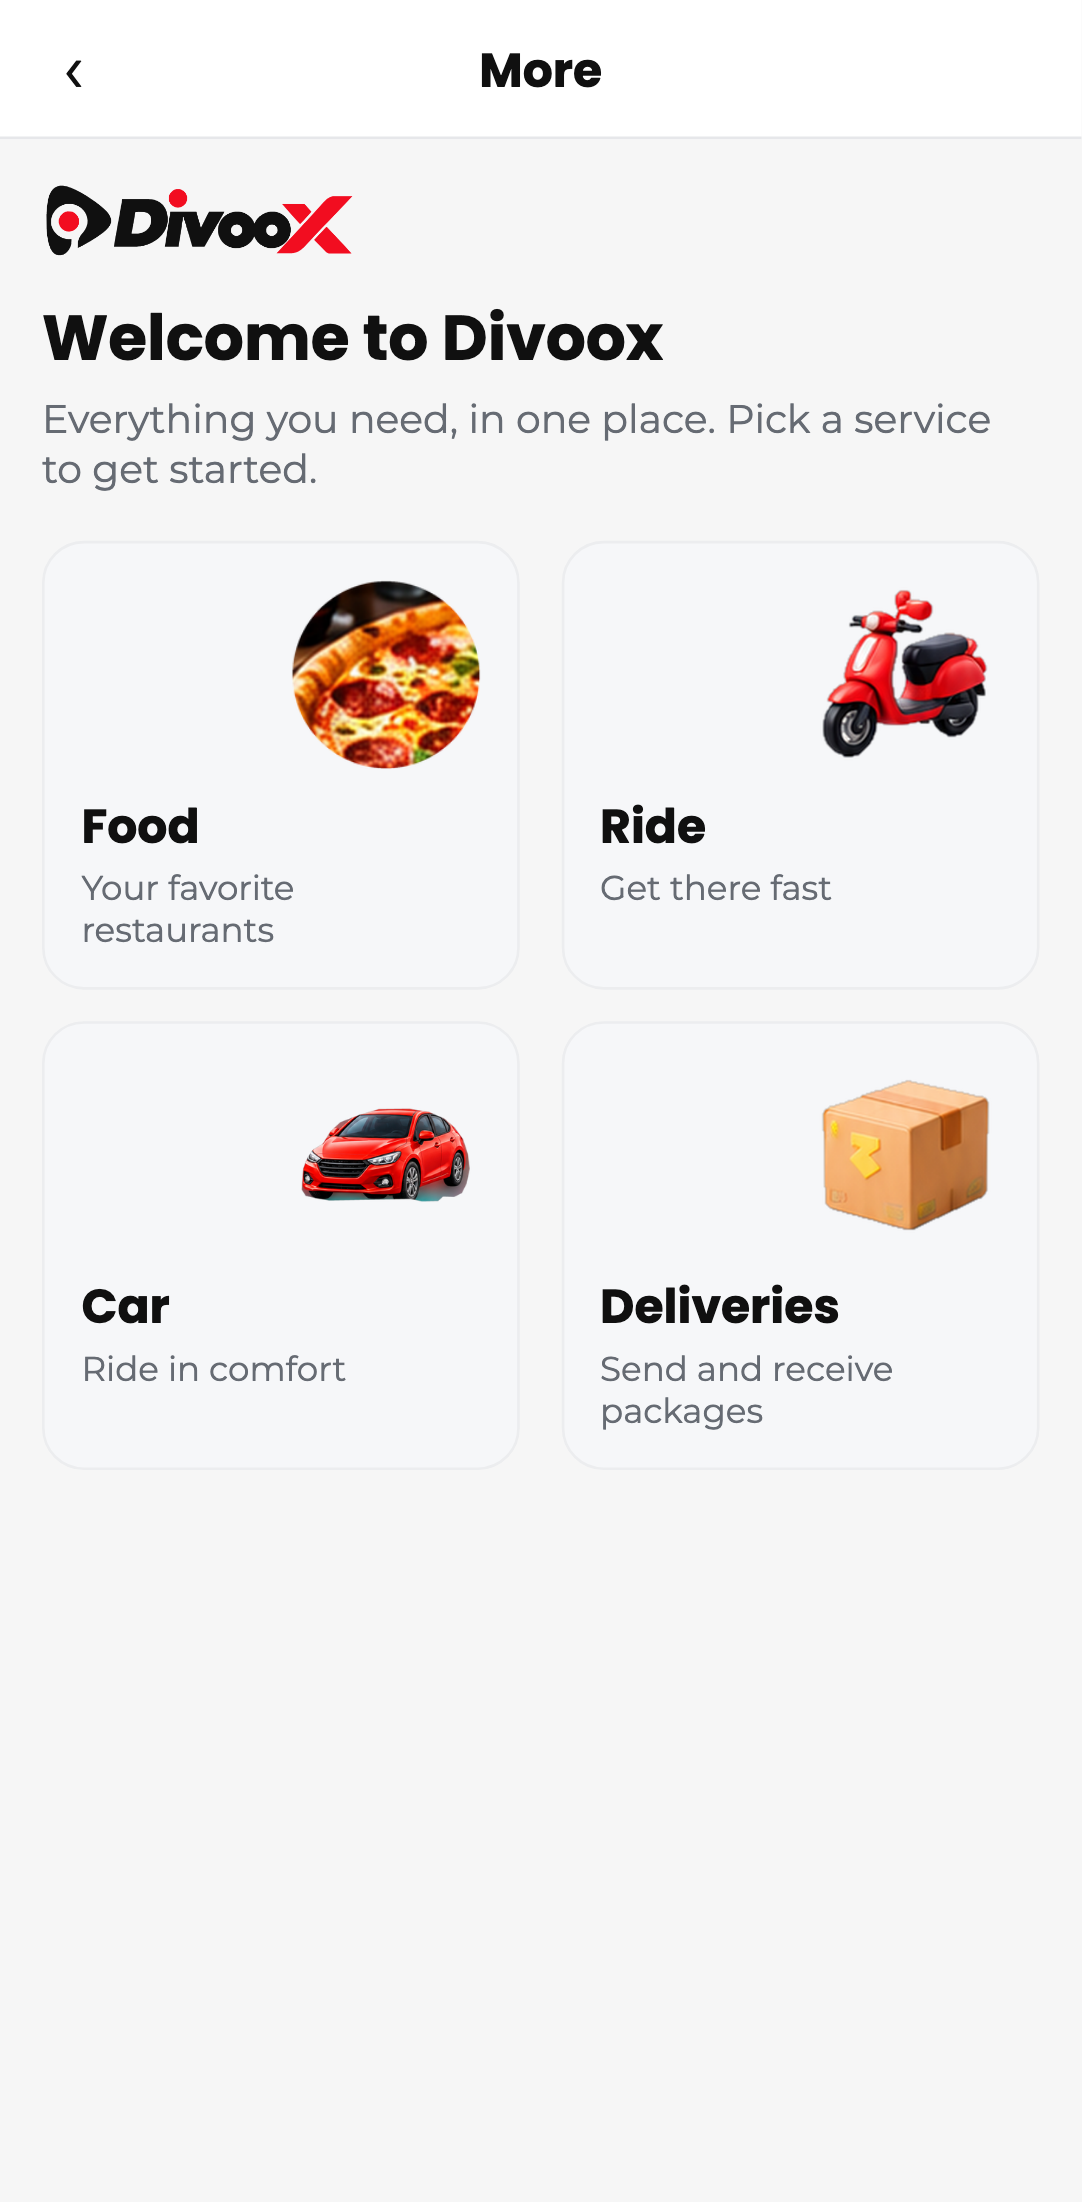
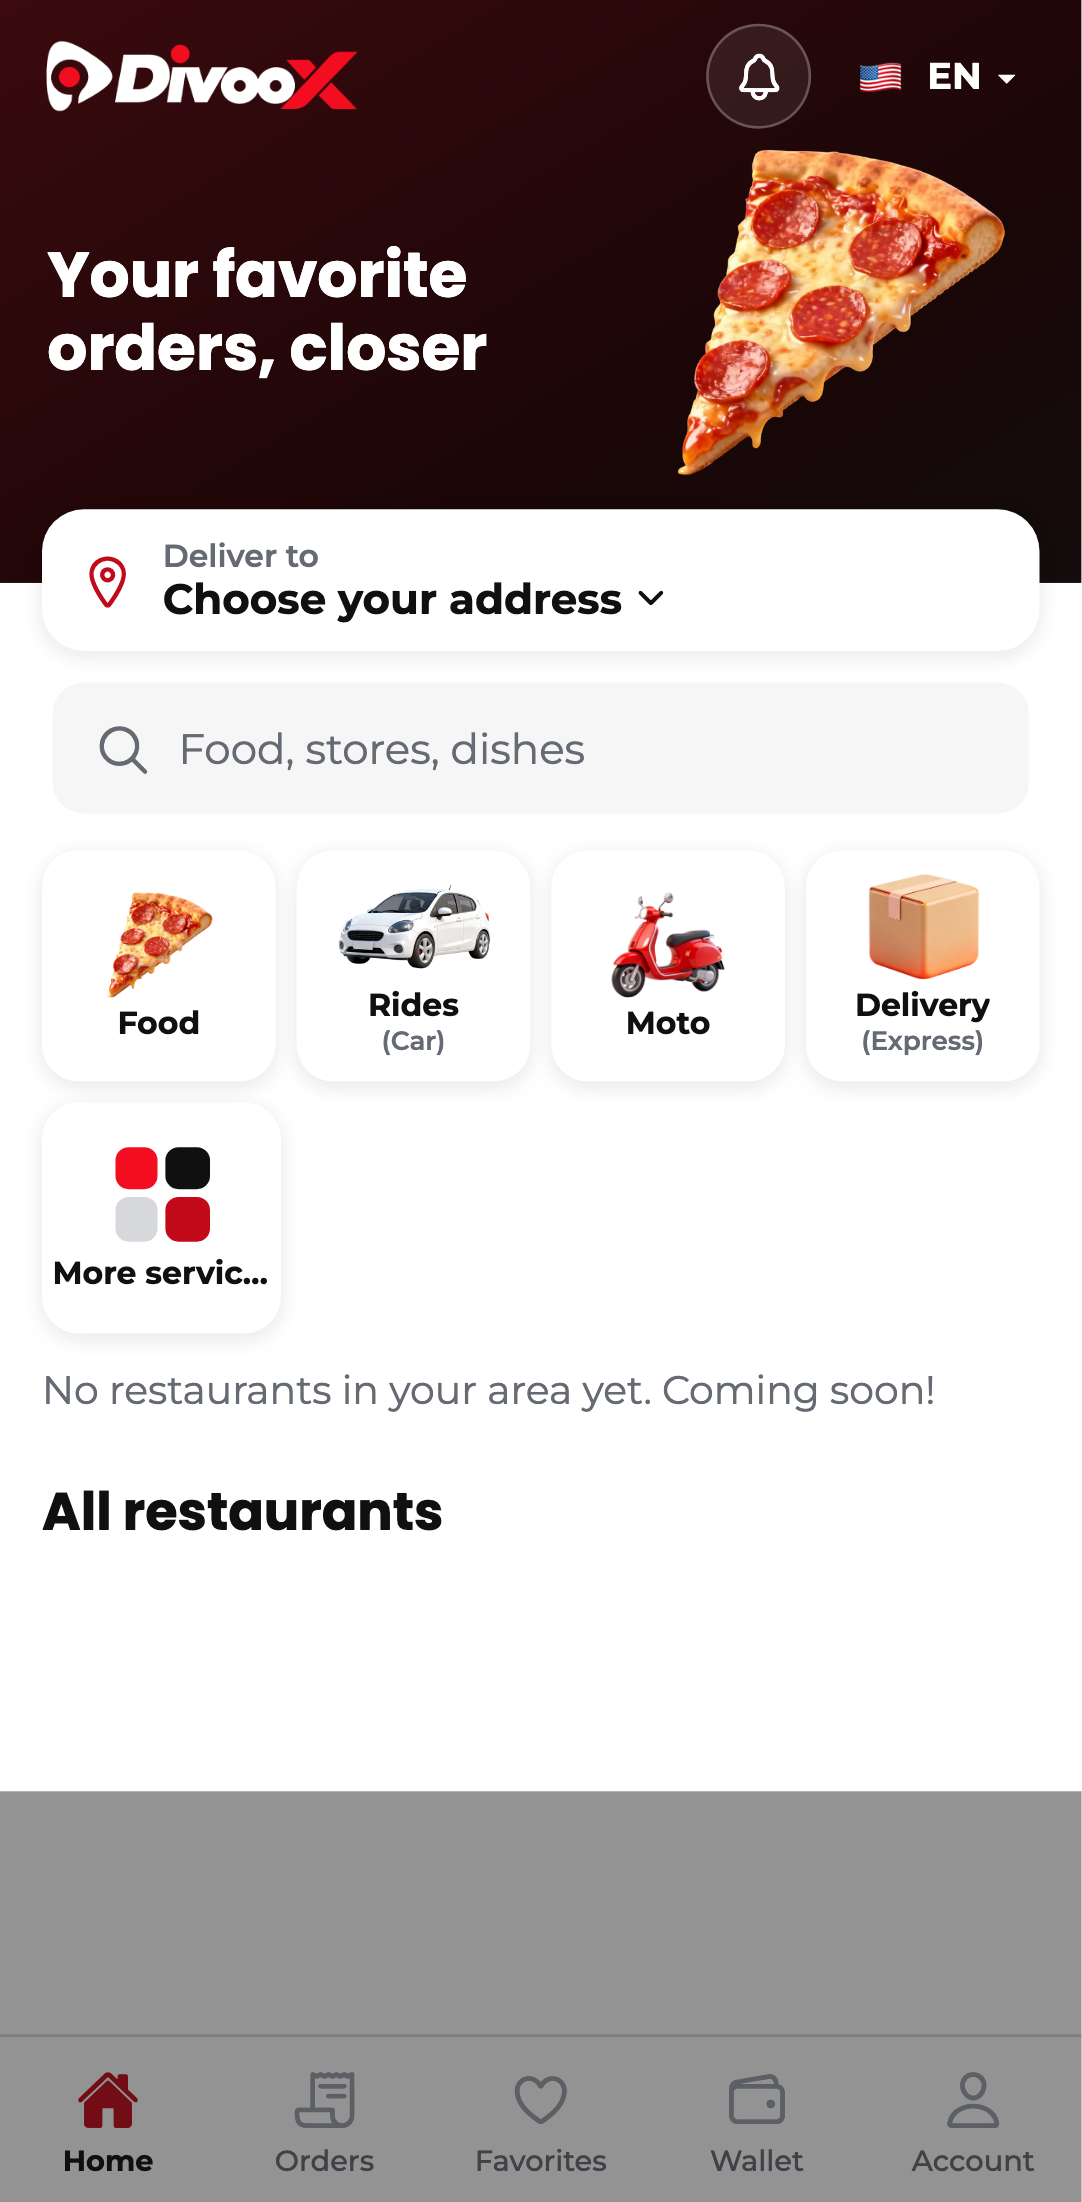
fix(recorrido): el recorrido completo vuelve a verde con el inicio nuevo («Close» exacto: chocaba con el titular «…closer» de la portada; «Más servicios» como hoja y Envíos/Carro según el borrador aprobado en el guion), el fondo de la hoja ya no es otro botón «Cerrar», el inicio suma «Te puede gusta

diff --git a/e2e/recorrido/mas.spec.ts b/e2e/recorrido/mas.spec.ts
@@ -18,7 +18,7 @@ const DATOS = STAGING
 test.skip(STAGING, 'solo en esta computadora');
 
 for (const idioma of ['en', 'es'] as const)
-  test(`«Más» muestra los servicios listos en una cuadrícula (${idioma})`, async ({
+  test(`el inicio muestra los servicios listos y «Más servicios» lo secundario (${idioma})`, async ({
     browser,
     request,
   }) => {
@@ -69,26 +69,22 @@ for (const idioma of ['en', 'es'] as const)
         },
       }),
     );
-    await p.goto('/app/service/mas');
+    // C-INICIO-NUEVO (17 nov 2026, borrador aprobado): en el inicio, los servicios que funcionan en
+    // cuatro columnas; «Más servicios» abre una hoja con lo secundario, sin repetir servicios.
+    await p.goto('/app/');
     const en = idioma === 'en';
-    await expect(p.getByTestId('pantalla-mas')).toBeVisible({ timeout: 30_000 });
     for (const s of ['moto', 'carro', 'comida', 'envios'])
-      await expect(p.getByTestId(`explorar-${s}`)).toBeVisible();
-    // C-SOLO-LO-TERMINADO (3 nov): bienvenida con el logo arriba, sin franja ni «Pronto».
-    await expect(p.getByText(en ? 'Welcome to Divoox' : 'Bienvenido a Divoox')).toBeVisible();
+      await expect(p.getByTestId(`servicio-${s}`)).toBeVisible({ timeout: 30_000 });
+    await expect(p.getByTestId('servicio-farmacia')).toHaveCount(0);
     await expect(p.getByText(/^(Pronto|Soon)$/)).toHaveCount(0);
-    await expect(p.getByTestId('franja-estado')).toHaveCount(0);
-    await expect(p.getByTestId('explorar-farmacia')).toHaveCount(0);
+    await p.getByTestId('servicio-mas').click();
+    await expect(p.getByTestId('mas-regalos')).toBeVisible({ timeout: 30_000 });
+    await expect(p.getByText(en ? 'More services' : 'Más servicios').last()).toBeVisible();
+    await expect(p.getByTestId('mas-moto')).toHaveCount(0);
     await p.screenshot({ path: join(RAIZ, 'docs', 'capturas', `mas-servicios-${idioma}.png`) });
-    // Un servicio que todavía no abre no muestra listas de «Ejemplo» (C-SOLO-LO-TERMINADO).
-    await p.goto('/app/service/farmacia');
-    await expect(p.getByTestId('franja-estado')).toBeVisible({ timeout: 30_000 });
-    await expect(p.getByText(/^(Ejemplo|Sample)$/)).toHaveCount(0);
-    await p.goto('/app/service/mas');
-    await expect(p.getByTestId('pantalla-mas')).toBeVisible({ timeout: 30_000 });
-    // Cada servicio lleva a su pantalla.
-    await p.getByTestId('explorar-carro').click();
-    await expect(p).toHaveURL(/service\/carro/);
+    // C-SIN-PANTALLAS-INTERMEDIAS: los enlaces viejos de /service/<id> llevan directo a su pantalla.
+    await p.goto('/app/service/carro');
+    await expect(p).toHaveURL(/ride\?servicio=carro/, { timeout: 30_000 });
     await ctx.close();
   });
 
@@ -122,10 +118,13 @@ test('cada servicio de viajes dice lo suyo en el formulario (es)', async ({ brow
   await p.goto('/app/ride?servicio=carro');
   // C-CARRO-CATEGORIAS: las categorías se eligen al ver el precio; el formulario dice lo de Carro.
   await expect(p.getByText(/Para 6, elige Carro XL/)).toBeVisible({ timeout: 30_000 });
-  await expect(p.getByTestId('parada-agregar')).toBeVisible();
+  // C-INICIO-NUEVO: las paradas se agregan después de elegir el destino (borrador aprobado).
+  await expect(p.getByText('Tipo de carro')).toBeVisible();
   await expect(p.getByText(casco)).toHaveCount(0);
   await p.goto('/app/ride?servicio=envios');
-  await expect(p.getByText('¿A dónde lo llevamos?').first()).toBeVisible({ timeout: 30_000 });
+  // Envíos: «Recoger en» y «Entregar en» (borrador aprobado), nunca «¿A dónde vas?».
+  await expect(p.getByText('Entregar en').first()).toBeVisible({ timeout: 30_000 });
+  await expect(p.getByText('¿A dónde vas?')).toHaveCount(0);
   await expect(p.getByText(casco)).toHaveCount(0);
   await expect(p.getByText(/Un pasajero/)).toHaveCount(0);
   await ctx.close();

diff --git a/apps/cliente/src/Inicio.tsx b/apps/cliente/src/Inicio.tsx
@@ -14,6 +14,7 @@ import {
   ordenarPorUso,
   portadaRespaldo,
   rutaBanners,
+  recomendarRestaurantes,
   rutaDeServicio,
   serviciosDelInicio,
 } from '@tumbite/compartido';
@@ -31,6 +32,10 @@ import { ElegirDireccion } from './inicio/ElegirDireccion';
 import type { PromoReal } from './inicio/Ofertas';
 import { useServicios } from './inicio/useServicios';
 import { useAvisos } from './inicio/useAvisos';
+import { useFavoritos } from './inicio/useFavoritos';
+import { EstadoCatalogo } from './comida/EstadoCatalogo';
+import { FilaRestaurantes, ListaRestaurantes } from './inicio/Restaurantes';
+import { textosInicio } from './inicio/textos';
 import {
   CarruselPromos,
   CuadriculaServicios,
@@ -43,6 +48,8 @@ import { textosInicioNuevo } from './inicio/textosNuevo';
 import { useVolverAlViaje } from './viajes/useVolverAlViaje';
 
 const ANCHO_PORTADA = 640;
+/** Cuántos restaurantes salen por tanda en «Todos los restaurantes». */
+const TANDA = 25;
 const LLAVE_USOS = 'inicio-usos-servicios';
 const LLAVE_PORTADA = 'inicio-ultima-portada';
 
@@ -177,6 +184,33 @@ export function Inicio() {
     );
   }, [api, cerca]);
 
+  // Debajo de lo del borrador, como los grandes al bajar: «Te puede gustar» (C-TE-PUEDE-GUSTAR, por lo
+  // que ya pidió) y «Todos los restaurantes» por tandas.
+  const favoritos = useFavoritos(api, Boolean(usuario));
+  const [cuantos, setCuantos] = useState(TANDA);
+  const [yaPedidos, setYaPedidos] = useState<Set<string>>(new Set());
+  useEffect(() => {
+    if (!usuario) return;
+    let vivo = true;
+    api
+      .pedir<{ pedidos: { estado: string; restauranteId: string }[] }>('GET', '/datos/mis-pedidos')
+      .then(
+        (r) =>
+          vivo &&
+          setYaPedidos(
+            new Set(r.pedidos.filter((p) => p.estado === 'entregado').map((p) => p.restauranteId)),
+          ),
+      )
+      .catch(() => undefined);
+    return () => {
+      vivo = false;
+    };
+  }, [api, usuario]);
+  const recomendados = useMemo(
+    () => recomendarRestaurantes(catalogo.restaurantes, yaPedidos),
+    [catalogo.restaurantes, yaPedidos],
+  );
+
   const carritoCentavos = carrito.lineas.reduce((s, l) => s + l.precioCentavos * l.cantidad, 0);
 
   const abrirServicio = (s: ServicioCatalogo) => {
@@ -264,6 +298,29 @@ export function Inicio() {
               alTocar={abrirRestaurante}
               verTodos={() => router.push('/restaurants')}
             />
+          ) : null}
+          {disponible('comida') ? (
+            <>
+              <FilaRestaurantes
+                idioma={idioma}
+                lista={recomendados}
+                titulo={idioma === 'en' ? 'You might like' : 'Te puede gustar'}
+                testID="te-puede-gustar"
+                favoritos={favoritos}
+                alTocar={abrirRestaurante}
+              />
+              <EstadoCatalogo idioma={idioma} catalogo={catalogo} />
+              <ListaRestaurantes
+                idioma={idioma}
+                lista={catalogo.restaurantes}
+                cuantos={cuantos}
+                verMas={() => setCuantos((n) => n + TANDA)}
+                cargando={catalogo.estado === 'cargando' && !catalogo.restaurantes.length}
+                favoritos={favoritos}
+                alTocar={abrirRestaurante}
+                vacio={catalogo.restaurantes.length ? textosInicio(idioma).sinFiltro : undefined}
+              />
+            </>
           ) : null}
         </View>
       </ScrollView>

diff --git a/e2e/recorrido/recorrido.spec.ts b/e2e/recorrido/recorrido.spec.ts
@@ -630,7 +630,7 @@ for (const idioma of ['en', 'es'] as const) {
     // La hoja sube deslizándose: la foto, cuando ya terminó de subir.
     await cli.waitForTimeout(CAPTURAS ? 800 : 0);
     await foto(cli, 'cliente-inicio-direccion');
-    await cli.getByRole('button', { name: idioma === 'en' ? 'Close' : 'Cerrar' }).click();
+    await cli.getByRole('button', { name: idioma === 'en' ? 'Close' : 'Cerrar', exact: true }).click();
     await expect(cli.getByTestId('inicio-direccion-casilla')).toBeHidden({ timeout: 10_000 });
     if (CAPTURAS) {
       await cli.getByTestId('lista-restaurantes').scrollIntoViewIfNeeded();
@@ -653,11 +653,12 @@ for (const idioma of ['en', 'es'] as const) {
     for (const s of porVenir) await expect(cli.getByTestId(`servicio-${s.id}`)).toHaveCount(0);
     await expect(cli.getByText(/^(Pronto|Soon)$/)).toHaveCount(0);
     if (await cli.getByTestId('servicio-mas').count()) {
+      // C-INICIO-NUEVO (17 nov 2026, borrador aprobado): «Más servicios» es una hoja con lo
+      // secundario (regalos, paquetes…); no repite los servicios de la cuadrícula ni dice «Pronto».
       await cli.getByTestId('servicio-mas').click();
-      await expect(cli.getByTestId('pantalla-mas')).toBeVisible({ timeout: 20_000 });
-      await expect(cli.getByText(/Bienvenido a Divoox|Welcome to Divoox/)).toBeVisible();
-      await expect(cli.getByTestId('explorar-comida')).toBeVisible();
-      for (const s of porVenir) await expect(cli.getByTestId(`explorar-${s.id}`)).toHaveCount(0);
+      await expect(cli.getByTestId('mas-regalos')).toBeVisible({ timeout: 20_000 });
+      await expect(cli.getByTestId('mas-paquetes')).toBeVisible();
+      await expect(cli.getByTestId('mas-comida')).toHaveCount(0);
       await expect(cli.getByText(/^(Pronto|Soon)$/)).toHaveCount(0);
       await expect(cli.getByTestId('franja-estado')).toHaveCount(0);
       await foto(cli, 'cliente-mas');

diff --git a/apps/cliente/src/viajes/useVolverAlViaje.ts b/apps/cliente/src/viajes/useVolverAlViaje.ts
@@ -19,6 +19,8 @@ export function useVolverAlViaje(api: Api, conCuenta: boolean) {
     if (!conCuenta || yaRevisado) return;
     yaRevisado = true;
     let vivo = true;
+    /** Ya hubo una respuesta definitiva (viaje encontrado, o ninguno con red). */
+    let terminado = false;
     let reloj: ReturnType<typeof setTimeout> | null = null;
     const leer = (ruta: string) =>
       api
@@ -32,10 +34,15 @@ export function useVolverAlViaje(api: Api, conCuenta: boolean) {
       ]);
       if (!vivo) return;
       const ruta = rutaAlAbrir(r.map((x) => x.viaje));
-      if (ruta) return router.push(ruta);
-      if (r.some((x) => !x.ok)) {
+      if (ruta) {
+        terminado = true;
+        return router.push(ruta);
+      }
+      if (r.every((x) => x.ok)) terminado = true;
+      else {
         if (intento + 1 >= MAX_INTENTOS) {
           // Sin red todavía: la próxima vez que se abra el inicio se vuelve a preguntar.
+          terminado = true;
           yaRevisado = false;
           return;
         }
@@ -46,8 +53,8 @@ export function useVolverAlViaje(api: Api, conCuenta: boolean) {
     return () => {
       vivo = false;
       if (reloj) clearTimeout(reloj);
-      // Si el inicio se desmontó antes de terminar, otra apertura puede volver a revisar.
-      if (reloj) yaRevisado = false;
+      // Si el inicio se desmontó antes de la respuesta, otra apertura vuelve a revisar.
+      if (!terminado) yaRevisado = false;
     };
   }, [api, conCuenta]);
 }

diff --git a/apps/cliente/src/inicio/HojaAbajo.tsx b/apps/cliente/src/inicio/HojaAbajo.tsx
@@ -1,7 +1,7 @@
 import type { ReactNode } from 'react';
 import { KeyboardAvoidingView, Platform, Pressable, ScrollView, View } from 'react-native';
 import { useSafeAreaInsets } from 'react-native-safe-area-context';
-import { C, Modal, Text, useSesion } from '@tumbite/movil';
+import { C, Modal, Text } from '@tumbite/movil';
 
 /**
  * C-INICIO-NUEVO: hoja que sube desde abajo con su asa, como el borrador («Más servicios», «Nuevo
@@ -21,7 +21,6 @@ export function HojaAbajo({
   children: ReactNode;
 }) {
   const borde = useSafeAreaInsets().bottom;
-  const { idioma } = useSesion();
   return (
     <Modal
       visible={visible}
@@ -36,8 +35,10 @@ export function HojaAbajo({
       >
         <Pressable
           onPress={alCerrar}
-          accessibilityRole="button"
-          accessibilityLabel={idioma === 'en' ? 'Close' : 'Cerrar'}
+          // El fondo oscuro cierra al tocarlo, pero no es un botón para el lector de pantalla (se
+          // cierra con «atrás»): así no hay dos «Cerrar» con el mismo nombre en la pantalla.
+          accessible={false}
+          importantForAccessibility="no-hide-descendants"
           style={{
             position: 'absolute',
             top: 0,

diff --git a/apps/servidor/src/rutas/nombreSinNumero.test.ts b/apps/servidor/src/rutas/nombreSinNumero.test.ts
@@ -1,0 +1,22 @@
+import { describe, expect, it } from 'vitest';
+import { nombreSinNumero } from './lugares';
+
+/**
+ * C-DESTINO-POPULARES (segunda revisión de calidad, 18 nov): el nombre de un lugar popular nunca lleva
+ * el número de una casa ni el de un apartamento, oficina o piso.
+ */
+describe('nombreSinNumero', () => {
+  it('quita el número de la casa', () => {
+    expect(nombreSinNumero('43381 Grand River Ave, Novi, MI').titulo).toBe('Grand River Ave');
+    expect(nombreSinNumero('Av. Bolívar #25, Centro').titulo).toBe('Av. Bolívar');
+    expect(nombreSinNumero('Calle 3, El Vigía').titulo).toBe('Calle 3');
+  });
+
+  it('quita apartamento, unidad, oficina o piso con su número', () => {
+    expect(nombreSinNumero('100 Main St Apt 4B, Novi').titulo).toBe('Main St');
+    expect(nombreSinNumero('Ocean Dr Unit 12, Miami').titulo).toBe('Ocean Dr');
+    expect(nombreSinNumero('Brickell Ave Suite 300').titulo).toBe('Brickell Ave');
+    expect(nombreSinNumero('Av. Libertador Apto 5-2').titulo).toBe('Av. Libertador');
+    expect(nombreSinNumero('Torre Norte Piso 8').titulo).toBe('Torre Norte');
+  });
+});

diff --git a/apps/servidor/src/rutas/lugares.ts b/apps/servidor/src/rutas/lugares.ts
@@ -212,6 +212,31 @@ export function nombreSinNumero(direccion: string): { titulo: string; detalle: s
   const marca = new Set(['#', 'no', 'no.', 'nro', 'nro.', 'n°']);
   const p = titulo.split(/\s+/).filter(Boolean);
   if (p.length > 1 && esNumero(p[0] ?? '')) p.shift();
+  // Apartamento, unidad, oficina o piso con su número («Apt 4B», «Suite 300», «Apto 5-2», «Piso 8»):
+  // desde esa palabra hasta el final.
+  const unidad = new Set([
+    'apt',
+    'apt.',
+    'unit',
+    'suite',
+    'ste',
+    'ste.',
+    'apto',
+    'apto.',
+    'piso',
+    'ofic',
+    'ofic.',
+    'oficina',
+    'local',
+    'depto',
+    'depto.',
+    'dpto',
+    'dpto.',
+  ]);
+  const corte = p.findIndex(
+    (x, i) => i > 0 && unidad.has(x.toLowerCase()) && esNumero(p[i + 1] ?? ''),
+  );
+  if (corte > 0) p.splice(corte);
   const ultimo = p.at(-1) ?? '';
   if (p.length > 1 && /^#\d/.test(ultimo)) p.pop();
   else if (p.length > 2 && esNumero(ultimo) && marca.has((p.at(-2) ?? '').toLowerCase()))

diff --git a/apps/cliente/src/inicio/revisionInicio.test.ts b/apps/cliente/src/inicio/revisionInicio.test.ts
@@ -21,15 +21,17 @@ describe('revisión del inicio nuevo', () => {
     expect(f).toMatch(/if \(!servicios\) return;[\s\S]{0,400}rutaBanners\('cabecera'/);
   });
 
-  it('el «Cerrar» de la hoja va en el idioma de la persona', () => {
+  it('el fondo de la hoja no es otro botón «Cerrar» (ni fijo en español)', () => {
     const f = leer('inicio', 'HojaAbajo.tsx');
     expect(f).not.toContain('accessibilityLabel="Cerrar"');
-    expect(f).toMatch(/idioma === 'en' \? 'Close' : 'Cerrar'/);
+    expect(f).toMatch(/accessible=\{false\}/);
   });
 
   it('volver al viaje se reintenta si no hubo red al abrir', () => {
     const f = leer('viajes', 'useVolverAlViaje.ts');
     expect(f).toMatch(/yaRevisado = false/);
     expect(f).toContain('setTimeout');
+    // Segunda revisión: si el inicio se desmonta antes de la primera respuesta, se vuelve a revisar.
+    expect(f).toMatch(/if \(!terminado\) yaRevisado = false/);
   });
 });
